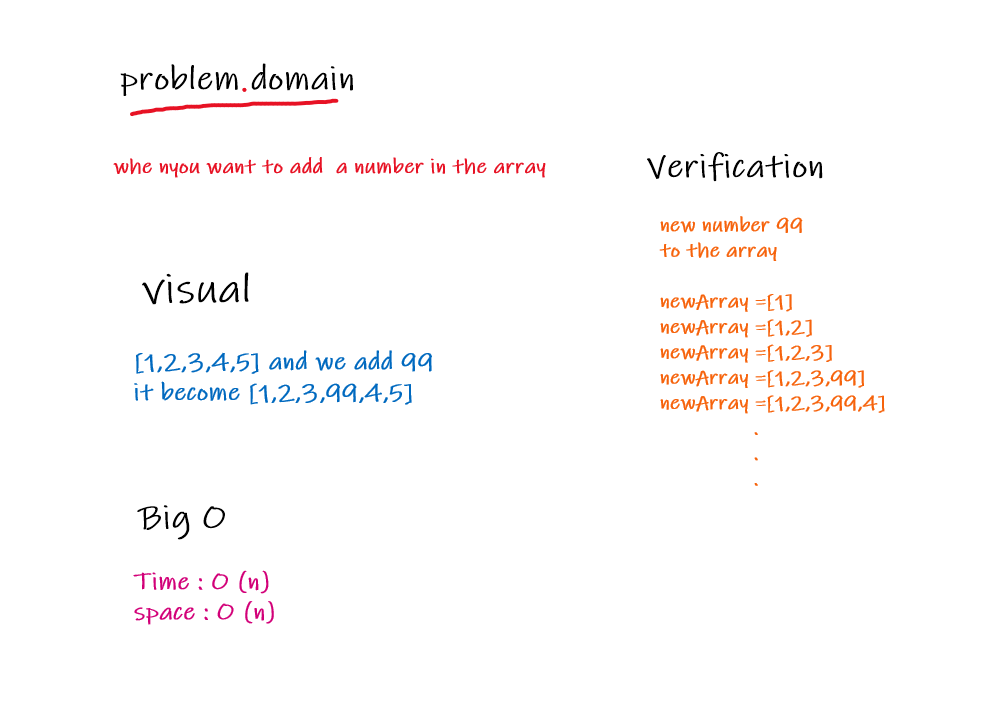
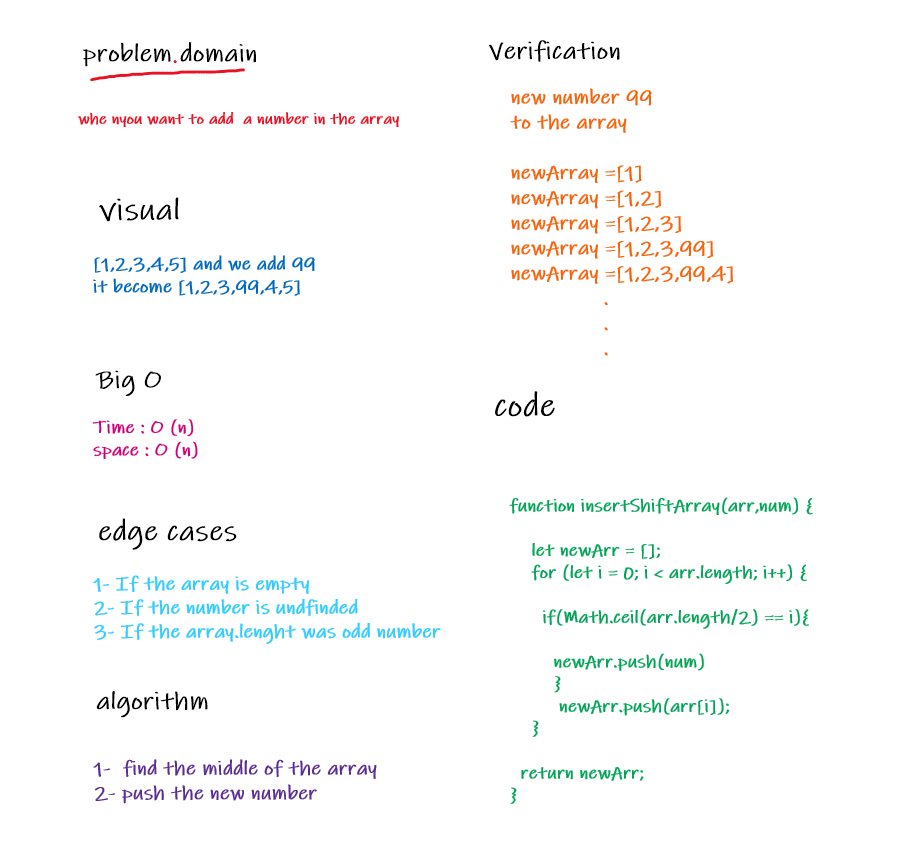
update readme

diff --git a/javascript/code-challenges/arrayShift/readme.md b/javascript/code-challenges/arrayShift/readme.md
@@ -2,6 +2,22 @@
 
 [Shift Array code ](https://github.com/IbrahimAljabr/data-structures-and-algorithms/blob/master/javascript/code-challenges/arrayShift/array-shift.js)
 
-# Image for the project
+
+
+# Challenge Summary
+
+- Add a value in the middle of an array.
+
+## Challenge Description
+- find the middle of the array to add the new value to it.
+
+## Approach & Efficiency
+- to make it less complex as possible .
+
+## Solution
+
 ![Image](./shiftArray.png)
+
+
+
 
